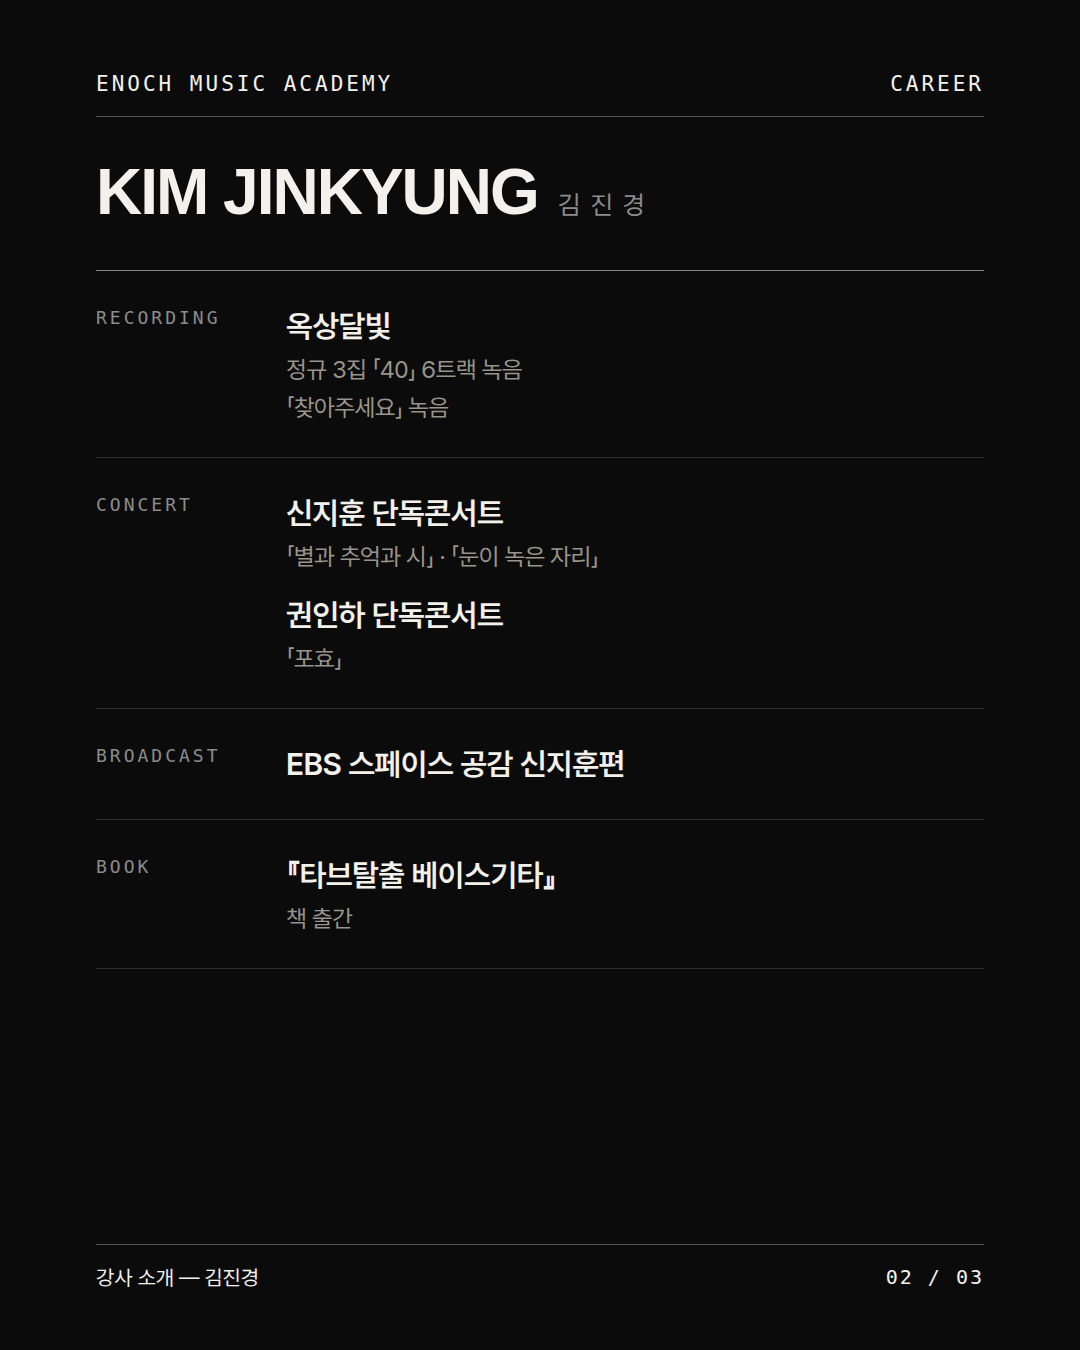
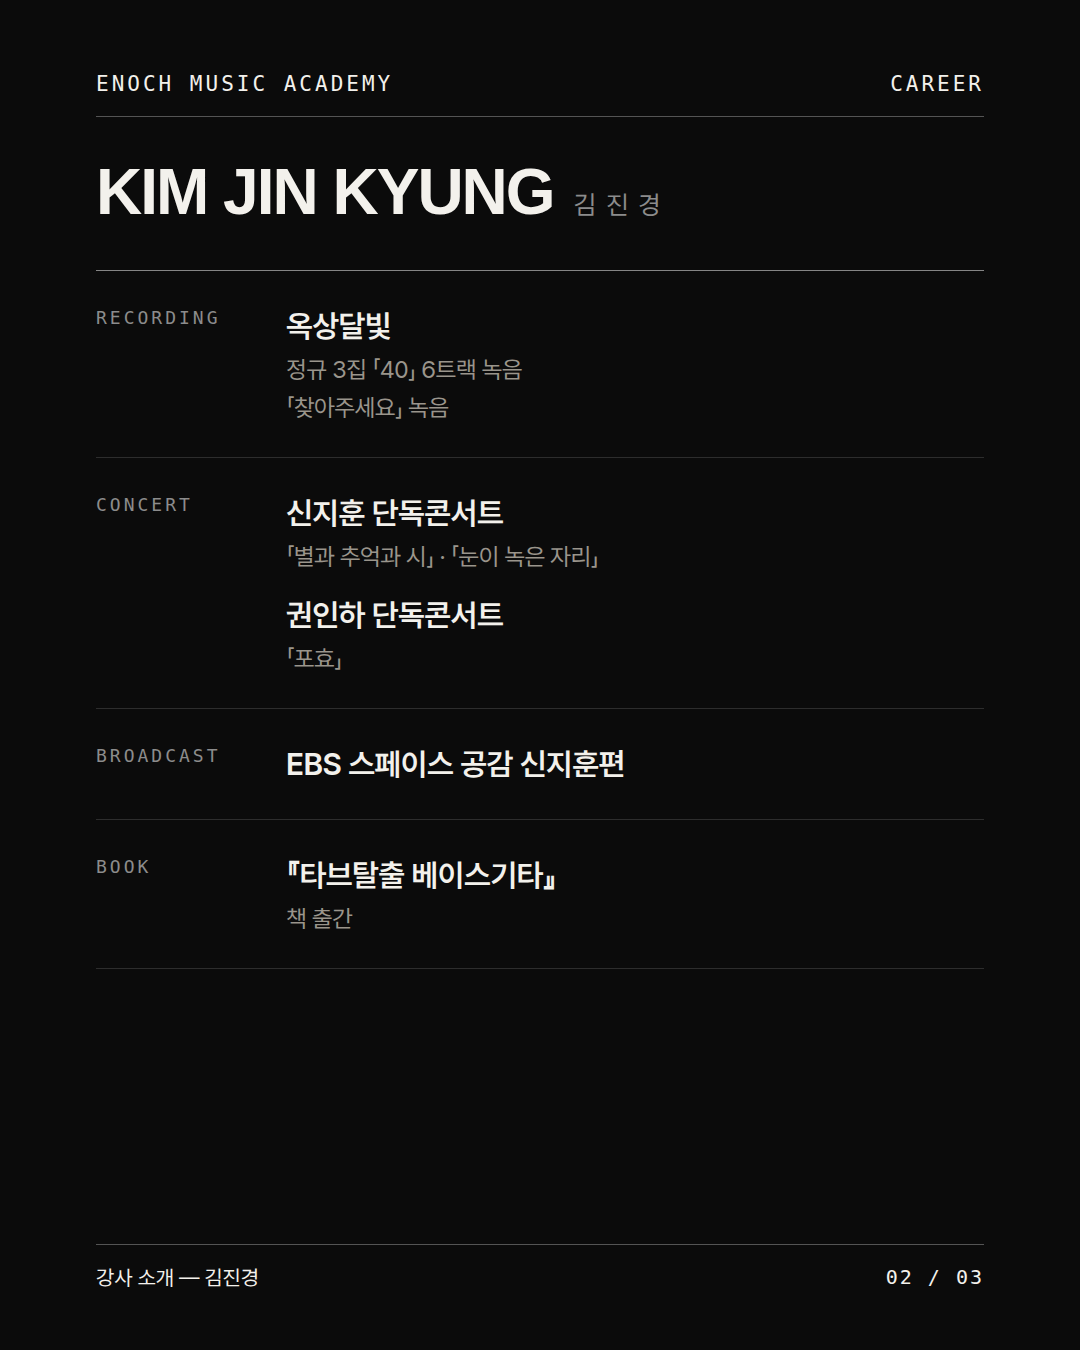
김진경: 영문 이름 띄어쓰기 (KIM JIN KYUNG)
Claude-Session: https://claude.ai/code/session_01HGbZvgMeYrbU7mY8bwfjyb

Changed region(s): [[0.275, 0.1244, 0.6111, 0.1556]]

diff --git a/output/강사소개_김진경/story.html b/output/강사소개_김진경/story.html
@@ -14,7 +14,7 @@
 #R .ph{position:absolute;right:80px;top:330px;width:640px;height:860px;background:#111 url(../../images/강사/김진경_01.jpg) no-repeat;background-size:cover;background-position:50% 30%}
 #R .side{position:absolute;left:80px;top:330px;height:860px;width:220px;display:flex;flex-direction:column;justify-content:space-between}
 #R .side .n{font-size:64px;font-weight:300;line-height:1}
-#R .en{position:absolute;left:76px;top:1262px;font-size:86px;font-weight:700;line-height:.92;letter-spacing:-3px}
+#R .en{position:absolute;left:76px;top:1262px;font-size:80px;font-weight:700;line-height:.92;letter-spacing:-3px}
 #R .ko{position:absolute;left:82px;top:1490px;font-size:34px;font-weight:400;letter-spacing:12px}
 #R .cv{position:absolute;right:80px;top:1262px;text-align:right;font-size:22px;line-height:1.72;font-weight:400}
 #R .cv .lab{display:block;margin-bottom:10px;font-size:18px}
@@ -41,7 +41,7 @@
   <div class="top"><span class="lab g">ENOCH TEACHERS</span><span class="lab">BASS</span></div>
   <div class="side"><span></span><span class="lab g" style="writing-mode:vertical-rl;transform:rotate(180deg)">ENOCH MUSIC ACADEMY</span></div>
   <div class="ph"></div>
-  <div class="en">KIM<br>JINKYUNG</div>
+  <div class="en">KIM<br>JIN KYUNG</div>
   <div class="ko g">김진경</div>
   <div class="cv"><span class="lab g">CAREER</span><span class="it"><b>옥상달빛</b><br>정규 3집 「40」 6트랙 · 「찾아주세요」 녹음</span><span class="it"><b>신지훈 단독콘서트</b><br>「별과 추억과 시」 · 「눈이 녹은 자리」<br>EBS 스페이스 공감 신지훈편</span><span class="it"><b>권인하 단독콘서트</b><br>「포효」</span><span class="it"><b>『타브탈출 베이스기타』</b><br>책 출간</span></div>
   <div class="bt"><span><span class="lime">●</span>&nbsp; Bass</span><span class="g">1:1 Lesson</span><span class="g">나만의 진짜 소리를 찾는 곳</span></div>

diff --git a/output/강사소개_김진경/feed_black.html b/output/강사소개_김진경/feed_black.html
@@ -67,13 +67,13 @@
   <div class="top"><span class="lab g">ENOCH TEACHERS</span><span class="lab">BASS</span></div>
   <div class="side"><span></span><span class="lab g" style="writing-mode:vertical-rl;transform:rotate(180deg)">ENOCH MUSIC ACADEMY</span></div>
   <div class="ph"></div>
-  <div class="en">KIM JINKYUNG</div>
+  <div class="en">KIM JIN KYUNG</div>
   <div class="ko g">김진경</div>
   <div class="cv" style="font-weight:600">옥상달빛 정규 3집 「40」 녹음<br>신지훈 단독콘서트 · EBS 스페이스 공감<br>권인하 단독콘서트 「포효」<br>『타브탈출 베이스기타』 출간</div>
   <div class="bt"><span><span class="lime">●</span>&nbsp; Bass</span><span class="g">1:1 Lesson</span><span class="g">나만의 진짜 소리를 찾는 곳</span></div>
 </section><section class="s bl" id="r2">
   <div class="hd"><span>ENOCH MUSIC ACADEMY</span><span>CAREER</span></div>
-  <div class="nm">KIM JINKYUNG<small>김진경</small></div>
+  <div class="nm">KIM JIN KYUNG<small>김진경</small></div>
   <div class="tbl">
     <div class="sec"><span class="k">Recording</span><ul><li class="hi">옥상달빛</li><li class="lo">정규 3집 「40」 6트랙 녹음<br>「찾아주세요」 녹음</li></ul></div>
     <div class="sec"><span class="k">Concert</span><ul><li class="hi">신지훈 단독콘서트</li><li class="lo">「별과 추억과 시」 · 「눈이 녹은 자리」</li><li class="hi" style="margin-top:14px">권인하 단독콘서트</li><li class="lo">「포효」</li></ul></div>
